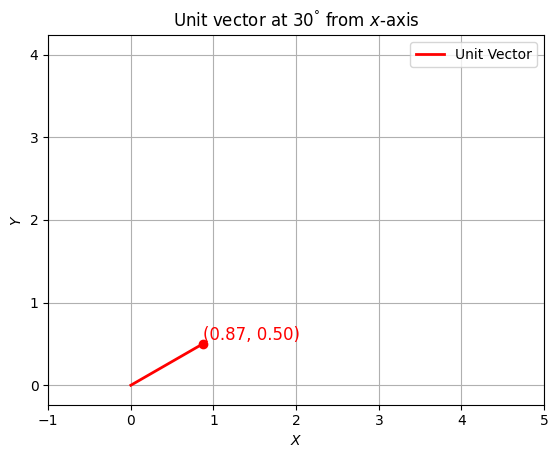
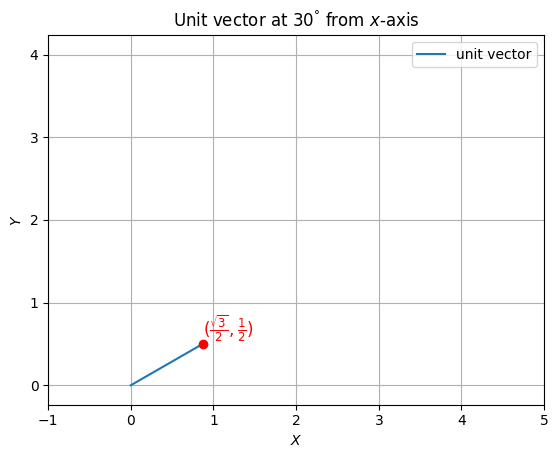
edited

diff --git a/Matgeo/q3/codes/output.py b/Matgeo/q3/codes/output.py
@@ -1,0 +1,58 @@
+import sys                                          #for path to external scripts
+sys.path.insert(0, '/Users/hanumac/Desktop/github/matgeo/codes/coordgeo')        #path to my scripts
+import numpy as np
+import numpy.linalg as LA
+import matplotlib.pyplot as plt
+import matplotlib.image as mpimg
+
+#local imports
+from line.funcs import *
+from triangle.funcs import *
+from conics.funcs import circ_gen
+
+
+def read_points(output):
+    with open(output, 'r') as f:
+        line = f.readline().strip()
+        line = line.strip("()")
+        x, y = map(float, line.split(','))
+    return x, y
+
+x, y = read_points('output')
+
+
+vector = read_points("output")
+
+x,y = vector[0] , vector[1]
+
+A = np.array(([0,0])).reshape(-1,1)
+B = np.array(([x,y])).reshape(-1,1)
+
+#generating line of vector
+x_BC = line_gen(A,B)
+
+#plotting the vector (line actually)
+
+plt.plot(x_BC[0,:],x_BC[1,:],label='unit vector')
+
+#trying to make it look like a vector
+plt.plot(x, y, 'ro')  
+plt.text(x, y, r"$( \frac{\sqrt{3}}{2}, \frac{1}{2} )$", color='red', fontsize=12, verticalalignment='bottom')
+
+plt.xlim(-1, 5)
+plt.ylim(-1, 5)
+
+plt.xlabel('$X$')
+plt.ylabel('$Y$')
+plt.legend(loc='best')
+plt.grid(True) # minor
+plt.axis('equal')
+plt.title('Unit vector at $30^{\degree}$ from $x$-axis')
+
+plt.xticks(np.arange(-1, 6, 1))
+plt.yticks(np.arange(-1, 6, 1))
+
+
+
+plt.savefig('../plots/plot.png', format='png', bbox_inches='tight')
+plt.close()
